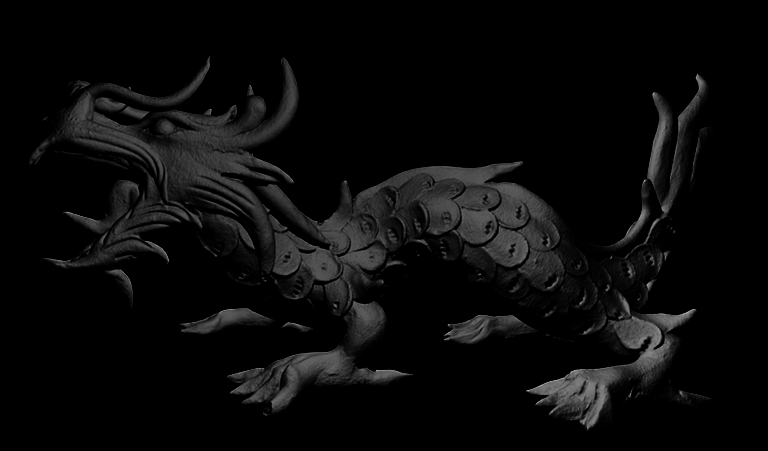
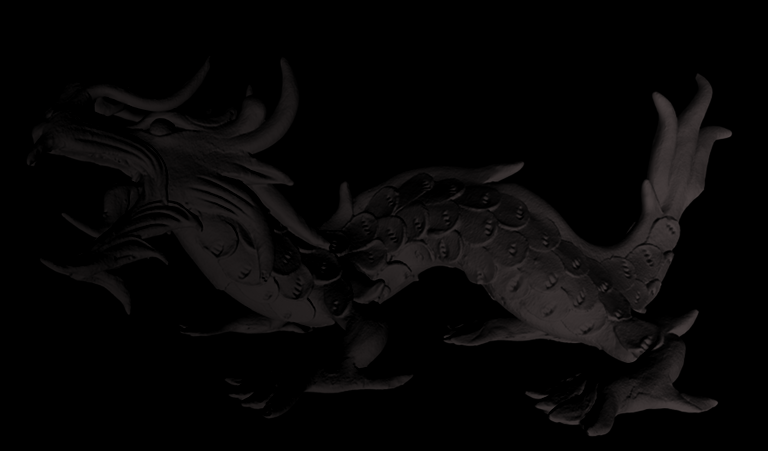
Full numpy, cook not working

Changed region(s): [[0.0625, 0.1242, 0.9688, 0.9623], [0.0312, 0.3104, 0.0625, 0.3725]]

diff --git a/tp4/MVA_NPM_TP_4.py b/tp4/MVA_NPM_TP_4.py
@@ -8,7 +8,7 @@ class Material():
     def f(self, wi, wo, n):
         pass
 
-    def shade(self, normal, light):
+    def shade(self, normal, lights):
         nlig, ncol, _ = normalimage.shape
         render = np.zeros((nlig, ncol, 3))
 
@@ -17,12 +17,15 @@ class Material():
         j = (2*j - ncol)/ncol
 
         wo = np.stack((-j, -i, 1.5 * np.ones_like(i)), axis=-1)
-        wi = light.position - np.stack((-j, -i, np.zeros_like(i)), axis=-1)
+        
+        for light in lights:
+            wi = light.position - np.stack((-j, -i, np.zeros_like(i)), axis=-1)
 
-        f = self.f(wi, wo, normal)
+            f = self.f(wo, wi, normal)
 
-        Li = light.intensity * light.color
-        render = np.clip(f*Li*np.sum(normal*wi,axis=-1,keepdims=True), 0, None)
+            Li = light.intensity * light.color
+            nwi = np.sum(normal*wi,axis=-1,keepdims=True)
+            render += np.clip(f*Li*nwi, 0, None)
         return render 
 
     def __add__(self, other):
@@ -51,38 +54,41 @@ class BlinnPhong(Material):
 
     def f(self, wo, wi, n):
         mid = wo + wi
-        wh = mid / np.linalg.norm(mid)
-        return self.diffuse * np.sum(n*wh,axis=-1,keepdims=True)**self.shine
+        wh = mid / np.linalg.norm(mid, axis=-1, keepdims=True)
+        nwh = np.sum(n*wh, axis=-1, keepdims=True)
+        return self.diffuse * nwh**self.shine
 
 class Cook(Material):
-    def __init__(self, roughness, metal, specular):
-        self.roughness = roughness
-        self.alpha_sq = self.roughness ** 4
-        self.metal = metal
-        self.spec = np.array(specular)
+    def __init__(self, alpha, specular):
+        self.alpha = alpha
+        self.roughness = np.sqrt(self.alpha)
+        self.k = (self.roughness + 1)**2/8
+        self.F0 = np.array(specular)
     
+
     def f(self, wo, wi, n):
         mid = wo + wi
         wh = mid / np.linalg.norm(mid)
 
-        D = self.alpha_sq / (np.pi *(np.dot(n,wh)**2*(self.alpha_sq-1)+1)**2)
+        nwh = np.sum(n*wh, axis=-1, keepdims=True)
+        nwi = np.sum(n*wi, axis=-1, keepdims=True)
+        nwo = np.sum(n*wo, axis=-1, keepdims=True)
+
+        D = self.alpha**2 / (np.pi *(nwh**2*(self.alpha**2-1)+1)**2)
         
         k = (self.roughness + 1)**2 / 8
-        nwi = np.dot(n,wi)
+        
         Gi = nwi/(nwi*(1-k)+k)
-
-        nwo = np.dot(n,wo)
         Go = nwo/(nwo*(1-k)+k)
 
         G = Gi * Go
 
         c1 = -5.55473
         c2 = -6.98316
-        ih = np.dot(wh, wi)
-        F = self.metal + (1 - self.metal)*2**((c1*ih + c2)*ih)
+        oh = np.sum(wh * wo, axis=-1, keepdims=True)
+        F = self.F0 + (1 - self.F0)*2**((c1*oh + c2)*oh)
 
-        return D*F*G/(4 * np.dot(n,wi) * np.dot(n,wo))
-        
+        return D*F*G/(4 * nwi * nwo)
         
 
     
@@ -97,21 +103,18 @@ def shade(normalimage, material, lightsources):
     render = np.zeros((nlig, ncol, 3))
 
     for i, j in np.ndindex(nlig, ncol):
-        if False and np.all(normalimage[i,j,:3] <= 3/255):
-            render[i,j] = [0.,0.,0]
-        else:
-            for ls in lightsources:
-                n = 2 * (normalimage[i,j,:3]-0.5)
-                #n = n/np.linalg.norm(n)
-                x = (2*j - ncol)/ncol
-                y = -(2*i - nlig)/ncol
-                wo = np.array([-x, -y ,1.5])
-                #wo = wo/np.linalg.norm(wo)
-                wi = ls.position - np.array([x,y,0])
-                #wi = wi/np.linalg.norm(wi)
-                f = material.f(wo, wi, n)
-                Li =  ls.intensity * ls.color
-                render[i,j] += np.clip(f * Li * np.dot(n, wi), 0, None)
+        for ls in lightsources:
+            n =  (normalimage[i,j,:3]-0.5)
+            n = n/np.linalg.norm(n)
+            x = (2*j - ncol)/ncol
+            y = -(2*i - nlig)/ncol
+            wo = np.array([-x, -y ,1.5])
+            wo = wo/np.linalg.norm(wo)
+            wi = ls.position - np.array([x,y,0])
+            wi = wi/np.linalg.norm(wi)
+            f = material.f(wo, wi, n)
+            Li =  ls.intensity * ls.color
+            render[i,j] += np.clip(f * Li * np.dot(n, wi), 0, None)
     return render 
 
 if __name__ == "__main__":
@@ -128,23 +131,60 @@ if __name__ == "__main__":
 
     # Define materials and light source
     # lambert = Lambert([0.3, 0.8, 0.5], 3)
-    lambert = Lambert([1.,1.,1.],2)
-    blinn = BlinnPhong([1,1,1.],2)
-    cook = Cook(0.7, 0.25, [0,0,1])
-    material = lambert + blinn# + cook
+    lambert = Lambert([0.70,0.62,0.62],1)
+    lambert2 = Lambert([0.70,0.62,0.62],0.6)
 
-    light_source1 = LightSource([0,1.,1.], [1.,1.,1.], 0.5)
-    light_source2 = LightSource([1.,0.,1.], [1.,0.1,0.3], 0.3)
-    light_source3 = LightSource([-1,0.,1.], [0.1,0.4,1.], 0.3)
+    blinn = BlinnPhong([0.70,0.62,0.62],0.75)
 
-    render = blinn.shade(normalimage[:,:,:3], light_source1) #, light_source2, light_source3])
-    
-    plt.imshow(render)
+    cook = Cook(0.3, [0.70,0.62,0.62])
+    material = blinn
+
+    light_source1 = LightSource([0.,0,1.0], [1.,1.,1.], 0.5)
+    light_source2 = LightSource([1.,0.,1.], [1.,0.1,0.3], 5)
+    light_source3 = LightSource([-1,0.,1.], [0.1,0.4,1.], 5)
+
+    fig, ax = plt.subplots()
+    render = lambert.shade(normalimage[:,:,:3], [light_source1])
+    im = plt.imshow(render)
+    nlig,ncol,_ = render.shape
+
+    from matplotlib.widgets import Slider
+    axx = plt.axes([0.25, 0.1, 0.65, 0.03])
+    axy = plt.axes([0.25, 0.15, 0.65, 0.03])
+    lx = Slider(axx,"x",-1.,1.,0)
+    ly = Slider(axy,"y",-1.,1.,0)
+
+    def onclick(event):
+        x = 5*(event.x-ncol/2)/ncol
+        y = -5*(event.y-nlig/2)/ncol
+        print(x,y)
+        light = LightSource([x,y,1.], [1.,1.,1.], 1)
+        render = lambert.shade(normalimage[:,:,:3],[light])
+        im.set_data(render)
+    cid = fig.canvas.mpl_connect('button_press_event', onclick)
+
+    #lx.on_changed(update)
     plt.show()
-    render = shade(normalimage[:,:,:3],blinn ,[light_source1]) #, light_source2, light_source3])
+    # from  tqdm import tqdm
+    # files = []
+    # for i, x in tqdm(enumerate(np.linspace(-1,1,100))):
+    #     light = LightSource([x,x,1.0], [1.,1.,1.], 0.75)
+    #     render = blinn.shade(normalimage[:,:,:3], [light])#, light_source2, light_source3])
+    #     plt.cla()
+    #     plt.imshow(render)
+    #     fname = "tmp-{}.png".format(i)
+    #     plt.savefig(fname)
+    #     files.append(fname)
     
-    plt.imshow(render)
-    plt.show()
+    # import subprocess
+    # subprocess.call("mencoder 'mf://tmp-*.png' -mf type=png:fps=10 -ovc lavc "
+    #             "-lavcopts vcodec=wmv2 -oac copy -o animation.mpg", shell=True)
 
-    print(render.min(), render.max())
-    plt.imsave(renderfile, render)
+    # for fname in files:
+    #     os.remove(fname)
+
+    # render = shade(normalimage[:,:,:3],cook ,[light_source1])
+    # plt.imshow(render)
+    # plt.show()
+
+    
